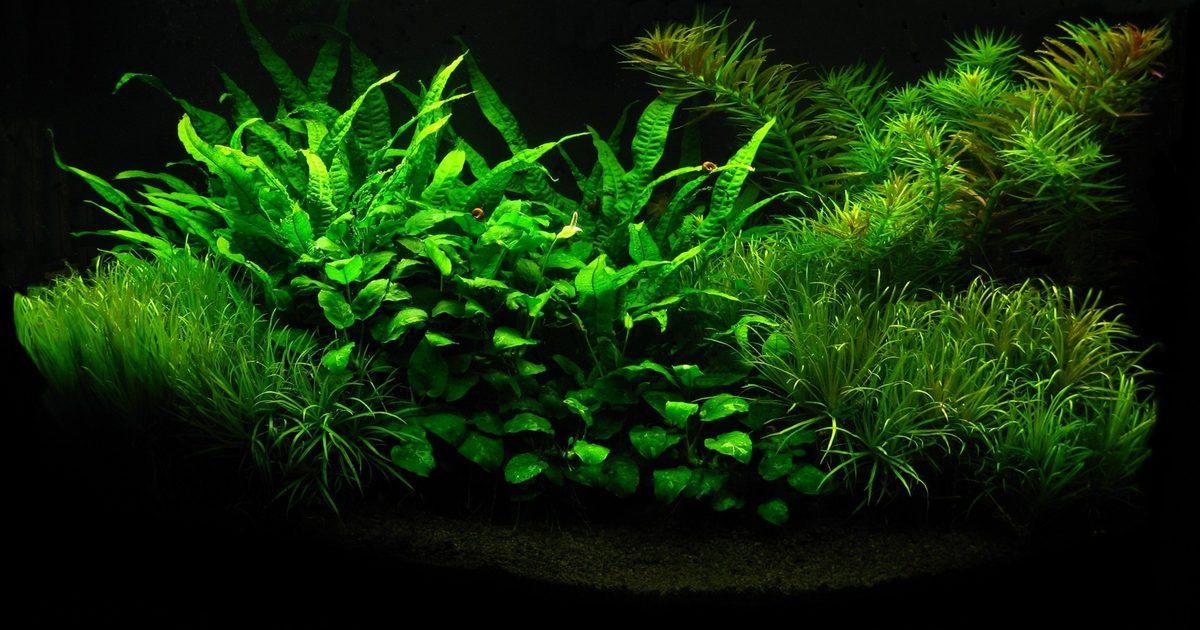
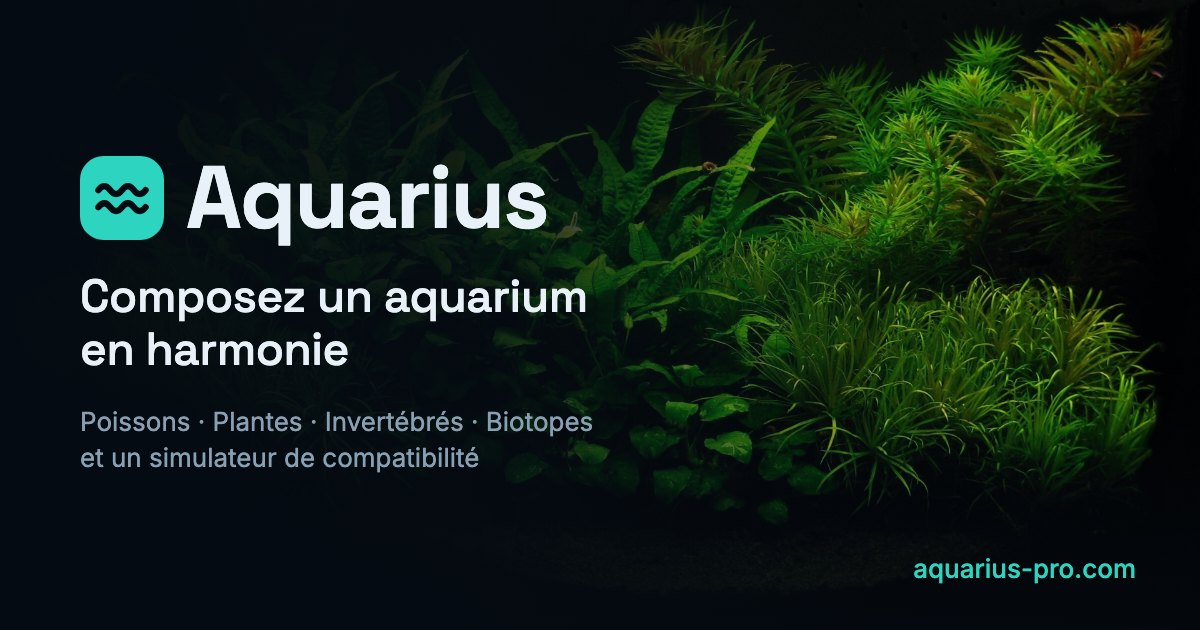
feat(seo): branded share image for the site (#39)
A 1200x630 card with the logo, the name, the tagline, the topics and
aquarius-pro.com over the home page aquascape, in Space Grotesk and Inter and
the dark theme colours, instead of the bare photo. scripts/og-image.mjs
renders it with Playwright's Chromium, to rerun after a logo, colour or
tagline change. Species and biotope pages keep sharing their own photo.

diff --git a/CHANGELOG.md b/CHANGELOG.md
@@ -57,6 +57,9 @@ The format follows [Keep a Changelog](https://keepachangelog.com/en/1.1.0/).
   name.
 
 ### Changed
+- **Share image of the site**: a 1200 × 630 card with the logo, the name, the tagline and aquarius-pro.com over the
+  home page aquascape, in the site's fonts and colours, instead of the bare photo (`scripts/og-image.mjs` renders it
+  with Playwright). Species and biotope pages still share their own photo.
 - The Instagram link and icon are removed from the contact page.
 - **Species pages rendered on the server** ([ADR 0019](docs/adr/0019-species-pages-rendered-on-the-server.md)):
   the texts, water parameters and range of every fish, invertebrate and plant are in the HTML instead of being
